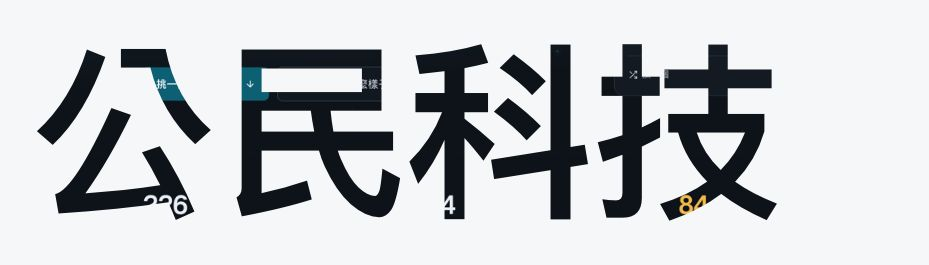
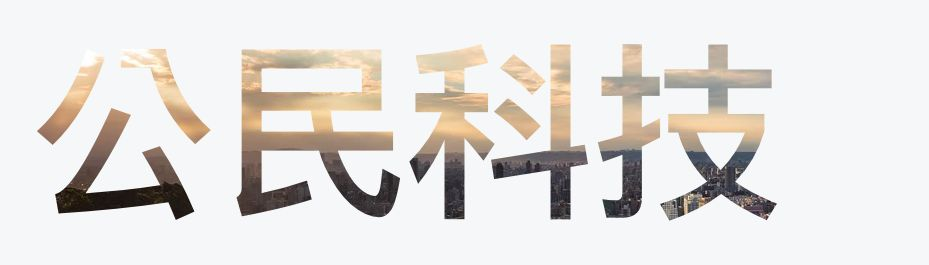
fix: links, textmask and tunnel read well in dark themes
Links in slides take the theme's accent instead of the browser's blue.
The gallery's textmask fills its words with a sunset photo rather than a
dark screenshot, and the tunnel's centre glow follows the theme.

Changed region(s): [[0.0312, 0.1509, 0.8428, 0.8453], [0.1249, 0.5434, 0.2185, 0.8151]]

diff --git a/effects.html b/effects.html
@@ -513,7 +513,7 @@ data-stagger="0.05"　字跟字的間隔</div>
 
 <!-- ===== textmask ===== -->
 <section class="slide fx" id="textmask">
-  <h1 data-fx="textmask" data-img="examples/media/hero-dark.png" style="font-size:190px;font-weight:900;line-height:1.1;white-space:nowrap">公民科技</h1>
+  <h1 data-fx="textmask" data-img="examples/taipei/media/elephant.jpg" style="font-size:190px;font-weight:900;line-height:1.1;white-space:nowrap">公民科技</h1>
   <div class="info">
     <p class="kicker">textmask</p><h2>文字遮罩</h2>
     <p>超大的字裡面填一張圖，圖慢慢移動。適合當段落的封面。</p>
@@ -679,7 +679,7 @@ data-mode="settle｜sway｜hold"</div>
 
 <!-- ===== tunnel ===== -->
 <section class="slide fx" id="tunnel">
-  <div class="tunnel" data-fx="tunnel" style="height:660px;border-radius:14px;background:radial-gradient(circle,#fff 0,var(--paper) 70%)">
+  <div class="tunnel" data-fx="tunnel" style="height:660px;border-radius:14px;background:radial-gradient(circle,var(--surface) 0,var(--paper) 70%)">
     <span>一鍵開大松</span><span>中央政府預算視覺化</span><span>選前大補帖</span><span>高雄氣爆</span><span>碳匯城鄉</span><span>CC0 繁體中文句庫</span><span>資料申請小幫手</span><span>disinfo</span><span>公務人員出國考察網</span><span>Think Tank Info</span><span>公民即時報</span><span>政治承諾追蹤網</span><span>阿龜微氣候</span><span>Wikidata</span><span>福利請聽</span><span>國家寶藏</span><span>LostSAR 無人機</span><span>騎樓抓漏</span><span>政府公開通訊錄</span><span>台灣路更平</span><span>HackingMap</span><span>國會大代誌</span><span>享食台灣</span><span>議見零時差</span><span>HackStory</span><span>秒懂災害潛勢</span><span>寵物需要我</span><span>立委投票指南</span><span>Vaxx.tw</span><span>零時空汙觀測網</span><span>來個判決書吧</span><span>臺灣好植地</span><span>美國國會台灣觀測站</span><span>國會調查兵團</span><span>血庫資訊</span><span>里伯 LINEbot</span><span>台灣 l10n 共筆</span><span>GoodJob 職場透明化</span><span>ChhoeTaigi</span><span>Disfactory</span><span>鄉民關心你</span><span>金流百科</span><span>農業災損幾多錢</span><span>零時小學校</span><span>公民記者證產生器</span><span>g0v 公報</span><span>開源出版</span><span>割闌尾計畫</span><span>司法陽光網</span><span>HackFoldr</span><span>公民科學計畫蒐集</span><span>新聞小幫手</span><span>政治獻金數位化</span><span>你被服貿了嗎?</span><span>CoTeach</span><span>臺灣黑熊通報</span><span>無麩質安全網</span><span>萌典</span><span>Cofacts 真的假的</span><span>vTaiwan</span>
   </div>
   <div class="info">

diff --git a/deck/deck.css b/deck/deck.css
@@ -63,6 +63,7 @@ h3{font-size:36px;font-family:var(--head);font-weight:650;margin:0 0 14px}
 p,li{font-size:34px;line-height:1.6;color:var(--ink-2);margin:0}
 .lede{font-size:40px;color:var(--ink-2);line-height:1.55}
 .big-q{font-size:84px;font-family:var(--head);font-weight:var(--head-weight);line-height:1.3}
+.slide a{color:var(--accent-ink)}
 .muted{color:var(--ink-muted)}.acc{color:var(--accent)}.warn{color:var(--warn)}.mono{font-family:var(--mono)}
 .center{align-items:center;text-align:center}
 .row{display:flex;gap:40px}

diff --git a/examples/civictech/deck/deck.css b/examples/civictech/deck/deck.css
@@ -63,6 +63,7 @@ h3{font-size:36px;font-family:var(--head);font-weight:650;margin:0 0 14px}
 p,li{font-size:34px;line-height:1.6;color:var(--ink-2);margin:0}
 .lede{font-size:40px;color:var(--ink-2);line-height:1.55}
 .big-q{font-size:84px;font-family:var(--head);font-weight:var(--head-weight);line-height:1.3}
+.slide a{color:var(--accent-ink)}
 .muted{color:var(--ink-muted)}.acc{color:var(--accent)}.warn{color:var(--warn)}.mono{font-family:var(--mono)}
 .center{align-items:center;text-align:center}
 .row{display:flex;gap:40px}

diff --git a/examples/intro/deck/deck.css b/examples/intro/deck/deck.css
@@ -63,6 +63,7 @@ h3{font-size:36px;font-family:var(--head);font-weight:650;margin:0 0 14px}
 p,li{font-size:34px;line-height:1.6;color:var(--ink-2);margin:0}
 .lede{font-size:40px;color:var(--ink-2);line-height:1.55}
 .big-q{font-size:84px;font-family:var(--head);font-weight:var(--head-weight);line-height:1.3}
+.slide a{color:var(--accent-ink)}
 .muted{color:var(--ink-muted)}.acc{color:var(--accent)}.warn{color:var(--warn)}.mono{font-family:var(--mono)}
 .center{align-items:center;text-align:center}
 .row{display:flex;gap:40px}

diff --git a/examples/taipei/deck/deck.css b/examples/taipei/deck/deck.css
@@ -63,6 +63,7 @@ h3{font-size:36px;font-family:var(--head);font-weight:650;margin:0 0 14px}
 p,li{font-size:34px;line-height:1.6;color:var(--ink-2);margin:0}
 .lede{font-size:40px;color:var(--ink-2);line-height:1.55}
 .big-q{font-size:84px;font-family:var(--head);font-weight:var(--head-weight);line-height:1.3}
+.slide a{color:var(--accent-ink)}
 .muted{color:var(--ink-muted)}.acc{color:var(--accent)}.warn{color:var(--warn)}.mono{font-family:var(--mono)}
 .center{align-items:center;text-align:center}
 .row{display:flex;gap:40px}
